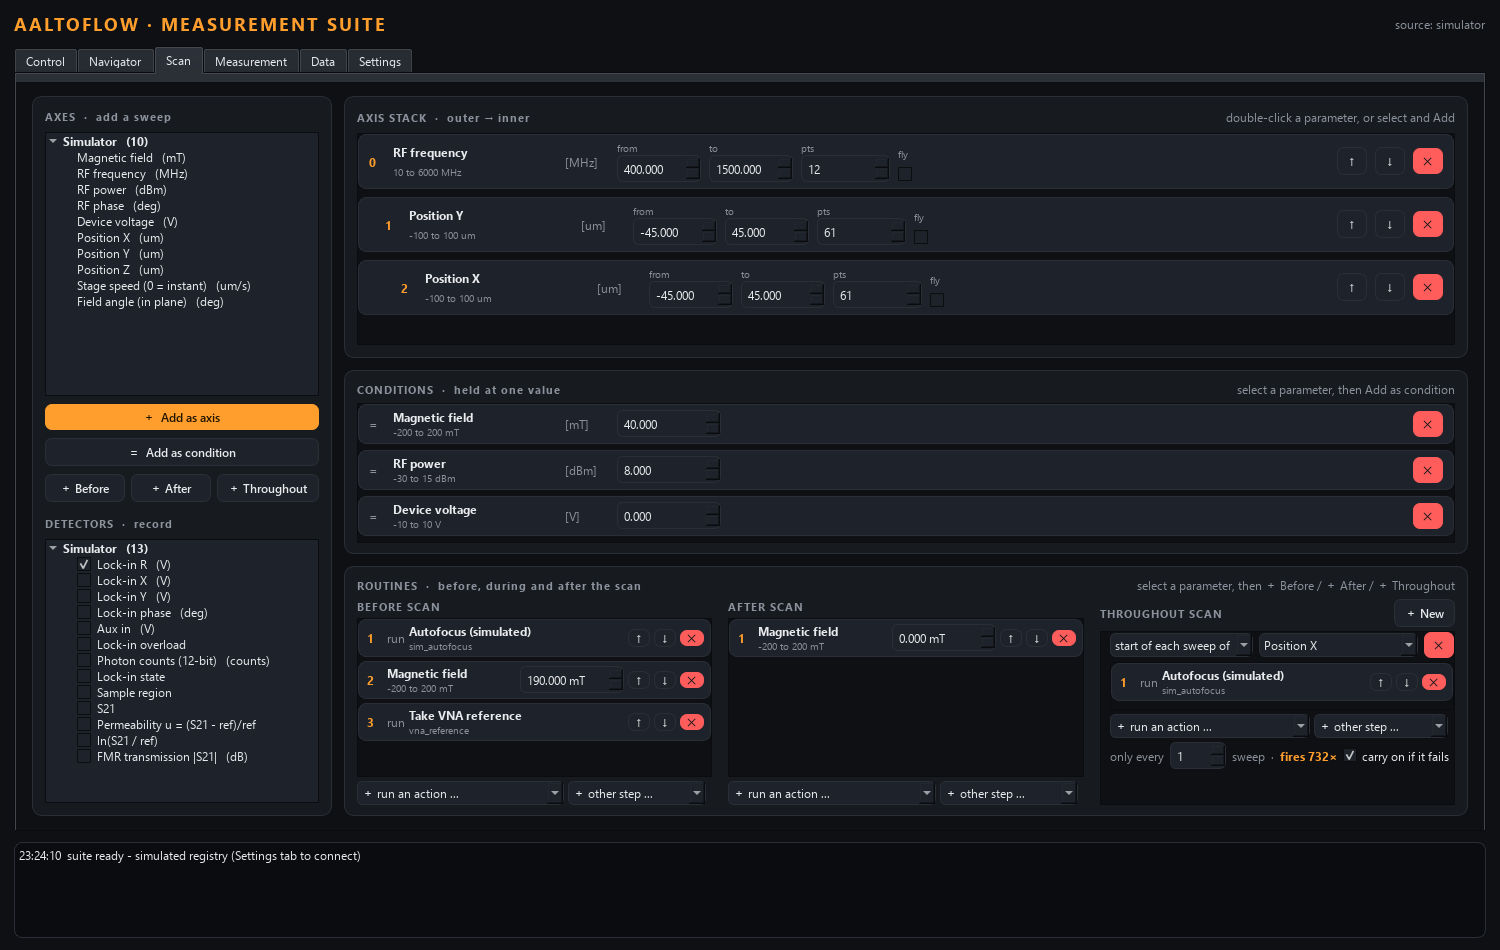
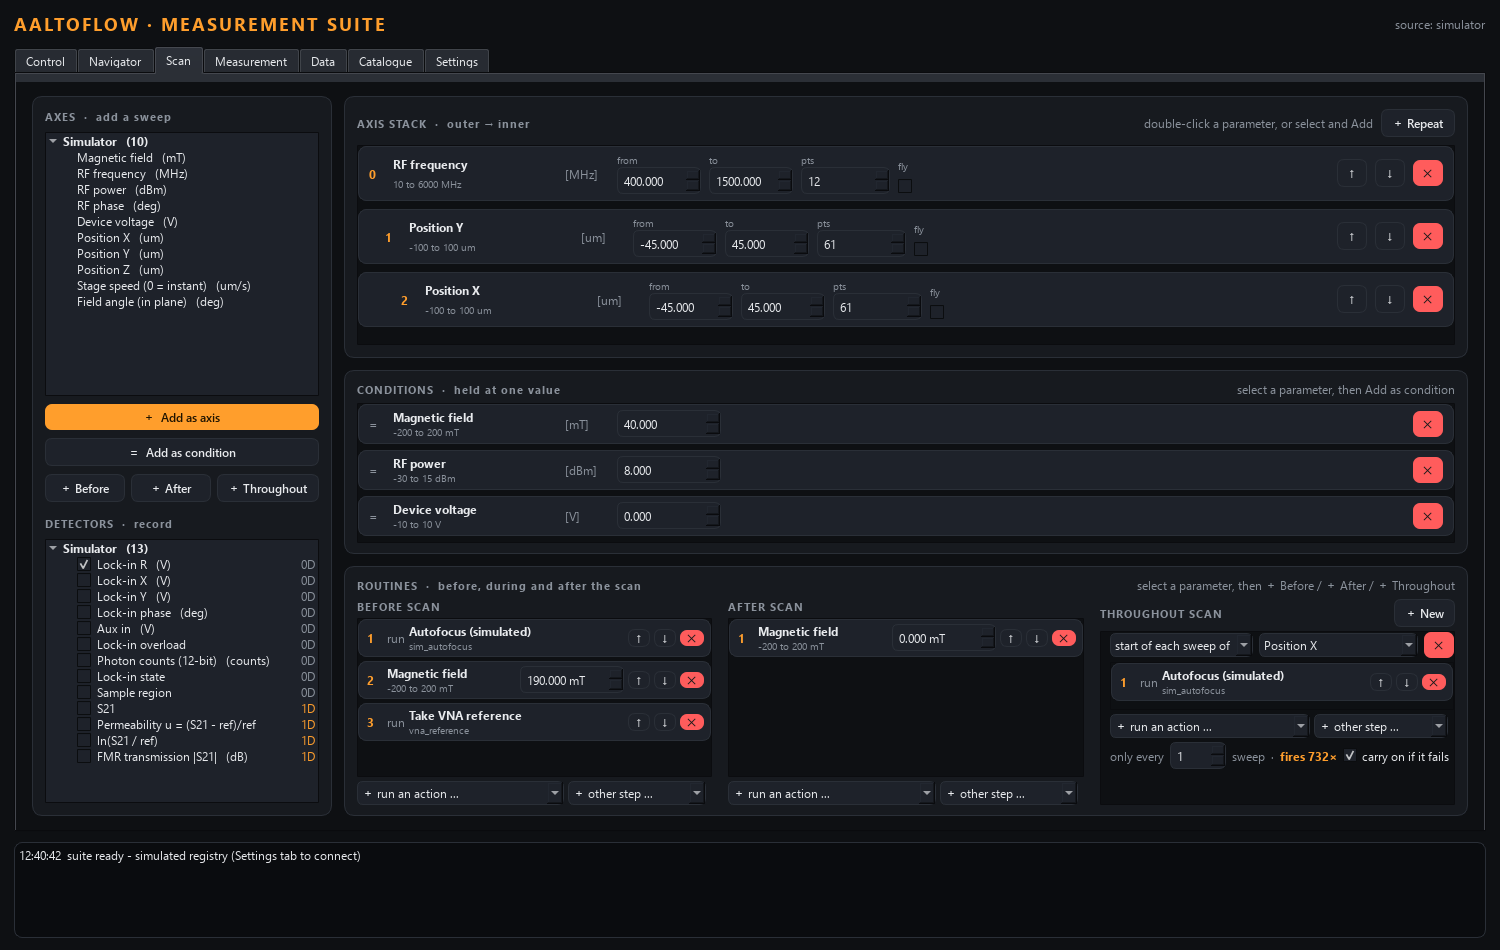
Scan tab: the detector list says what one point records (0D / 1D / 2D)
Lukas: "0D, 1D, 2D to visualize what is acquired". A narrow second column
in DETECTORS: 0D = one value per scan point, 1D = a trace the instrument
sweeps itself (a spectrum, a VNA sweep; with its length when the module
declares it), 2D = an image. The tooltip names the inner axes and says they
are added to the scan's own dimensions.

diff --git a/scan-core/apps/scan_builder.py b/scan-core/apps/scan_builder.py
@@ -532,6 +532,32 @@ class RepeatRow(QtWidgets.QFrame):
 
 # ──────────────────────────── one condition row ───────────────────────────────
 
+def detector_shape(p) -> tuple[str, str]:
+    """("0D" | "1D · 11101" | "2D" ..., tooltip): what ONE scan point of
+    detector `p` records. The inner axes are the ones the INSTRUMENT sweeps
+    itself (a spectrum's frequencies, a camera image's pixels); each becomes
+    a dimension of the data on top of the scan's own."""
+    axes = list(getattr(p, "axes", ()) or ())
+    kind = getattr(p, "dtype", "float")
+    what = {"complex": "complex numbers", "bool": "on / off", "enum": "one of a list",
+            "string": "text", "text": "text", "int": "whole numbers"}.get(kind, "numbers")
+    if not axes:
+        return "0D", f"0D: one value per scan point ({what})"
+    lens = [getattr(a, "length", None) for a in axes]
+    tag = f"{len(axes)}D"
+    if all(lens):
+        tag += " · " + " x ".join(str(n) for n in lens)
+    names = ", ".join(
+        f"{getattr(a, 'label', '') or a.name}"
+        + (f" [{a.unit}]" if getattr(a, "unit", "") else "")
+        + (f" ({n} points)" if n else "")
+        for a, n in zip(axes, lens))
+    return tag, (f"{len(axes)}D: the instrument records a whole "
+                 f"{'trace' if len(axes) == 1 else 'array'} at every scan point "
+                 f"({what}) along {names}. The data gets these axes on top of "
+                 f"the scan's own.")
+
+
 def is_bool_param(param) -> bool:
     """A switch (RF output, an enable line): declared bool in its describe."""
     st = getattr(param, "storage", None)
@@ -2746,6 +2772,14 @@ class ScanBuilder(QtWidgets.QMainWindow):
         v.addSpacing(6)          # the detectors are a different list, not a fourth button
         v.addWidget(self._tag("DETECTORS  ·  record"))
         self.det_tree = self._make_tree()
+        # a second, narrow column: what ONE scan point records -- 0D (a number),
+        # 1D (a trace: a spectrum, a VNA sweep), 2D (an image). Lukas
+        # 2026-10-06: "0D, 1D, 2D to visualize what is acquired"
+        self.det_tree.setColumnCount(2)
+        hdr = self.det_tree.header()
+        hdr.setStretchLastSection(False)
+        hdr.setSectionResizeMode(0, QtWidgets.QHeaderView.Stretch)
+        hdr.setSectionResizeMode(1, QtWidgets.QHeaderView.ResizeToContents)
         self.det_tree.itemChanged.connect(lambda *_: self._rebuild_summary())
         v.addWidget(self.det_tree, 1)
         self._reload_palette()
@@ -2807,9 +2841,14 @@ class ScanBuilder(QtWidgets.QMainWindow):
         for module, params in group_by_module(gettables).items():
             group = self._group_item(self.det_tree, module, len(params))
             for p in params:
-                it = QtWidgets.QTreeWidgetItem(group, [self._param_text(p)])
+                tag, tip = detector_shape(p)
+                it = QtWidgets.QTreeWidgetItem(group, [self._param_text(p), tag])
                 it.setData(0, QtCore.Qt.UserRole, p.id)
                 it.setToolTip(0, p.id)
+                it.setToolTip(1, tip)
+                it.setForeground(1, QtGui.QBrush(QtGui.QColor(
+                    C["accent"] if tag != "0D" else C["muted"])))
+                it.setTextAlignment(1, QtCore.Qt.AlignRight | QtCore.Qt.AlignVCenter)
                 it.setFlags(it.flags() | QtCore.Qt.ItemIsUserCheckable)
                 it.setCheckState(0, QtCore.Qt.Checked if p.id == default
                                  else QtCore.Qt.Unchecked)

diff --git a/scan-core/tests/test_bool_rows.py b/scan-core/tests/test_bool_rows.py
@@ -71,3 +71,24 @@ def test_routine_with_a_switch_round_trips_through_the_builder(qapp):
     rows = b.routines["before_scan"].rows
     assert rows[0].value_box.isChecked()
     b.close()
+
+
+def test_the_detector_list_says_what_one_point_records(qapp):
+    """Lukas 2026-10-06: "0D, 1D, 2D to visualize what is acquired"."""
+    from apps.scan_builder import ScanBuilder, detector_shape
+    from scan_core.registry import AxisSpec, Gettable
+    reg = build_sim_registry()
+    reg.add(Gettable("sa.trace", "Spectrum", "dBm", lambda: None,
+                     axes=[AxisSpec("sa_freq", "Frequency", "Hz", length=11101)]))
+    b = ScanBuilder(registry=reg)
+    tags = {}
+    for g in range(b.det_tree.topLevelItemCount()):
+        group = b.det_tree.topLevelItem(g)
+        for k in range(group.childCount()):
+            it = group.child(k)
+            tags[it.data(0, 0x0100)] = it.text(1)
+    assert tags["lockin_r"] == "0D"
+    assert tags["s21"] == "1D"                          # length known only at scan start
+    assert tags["sa.trace"] == "1D · 11101"
+    assert "11101 points" in detector_shape(reg.get("sa.trace"))[1]
+    b.close()
